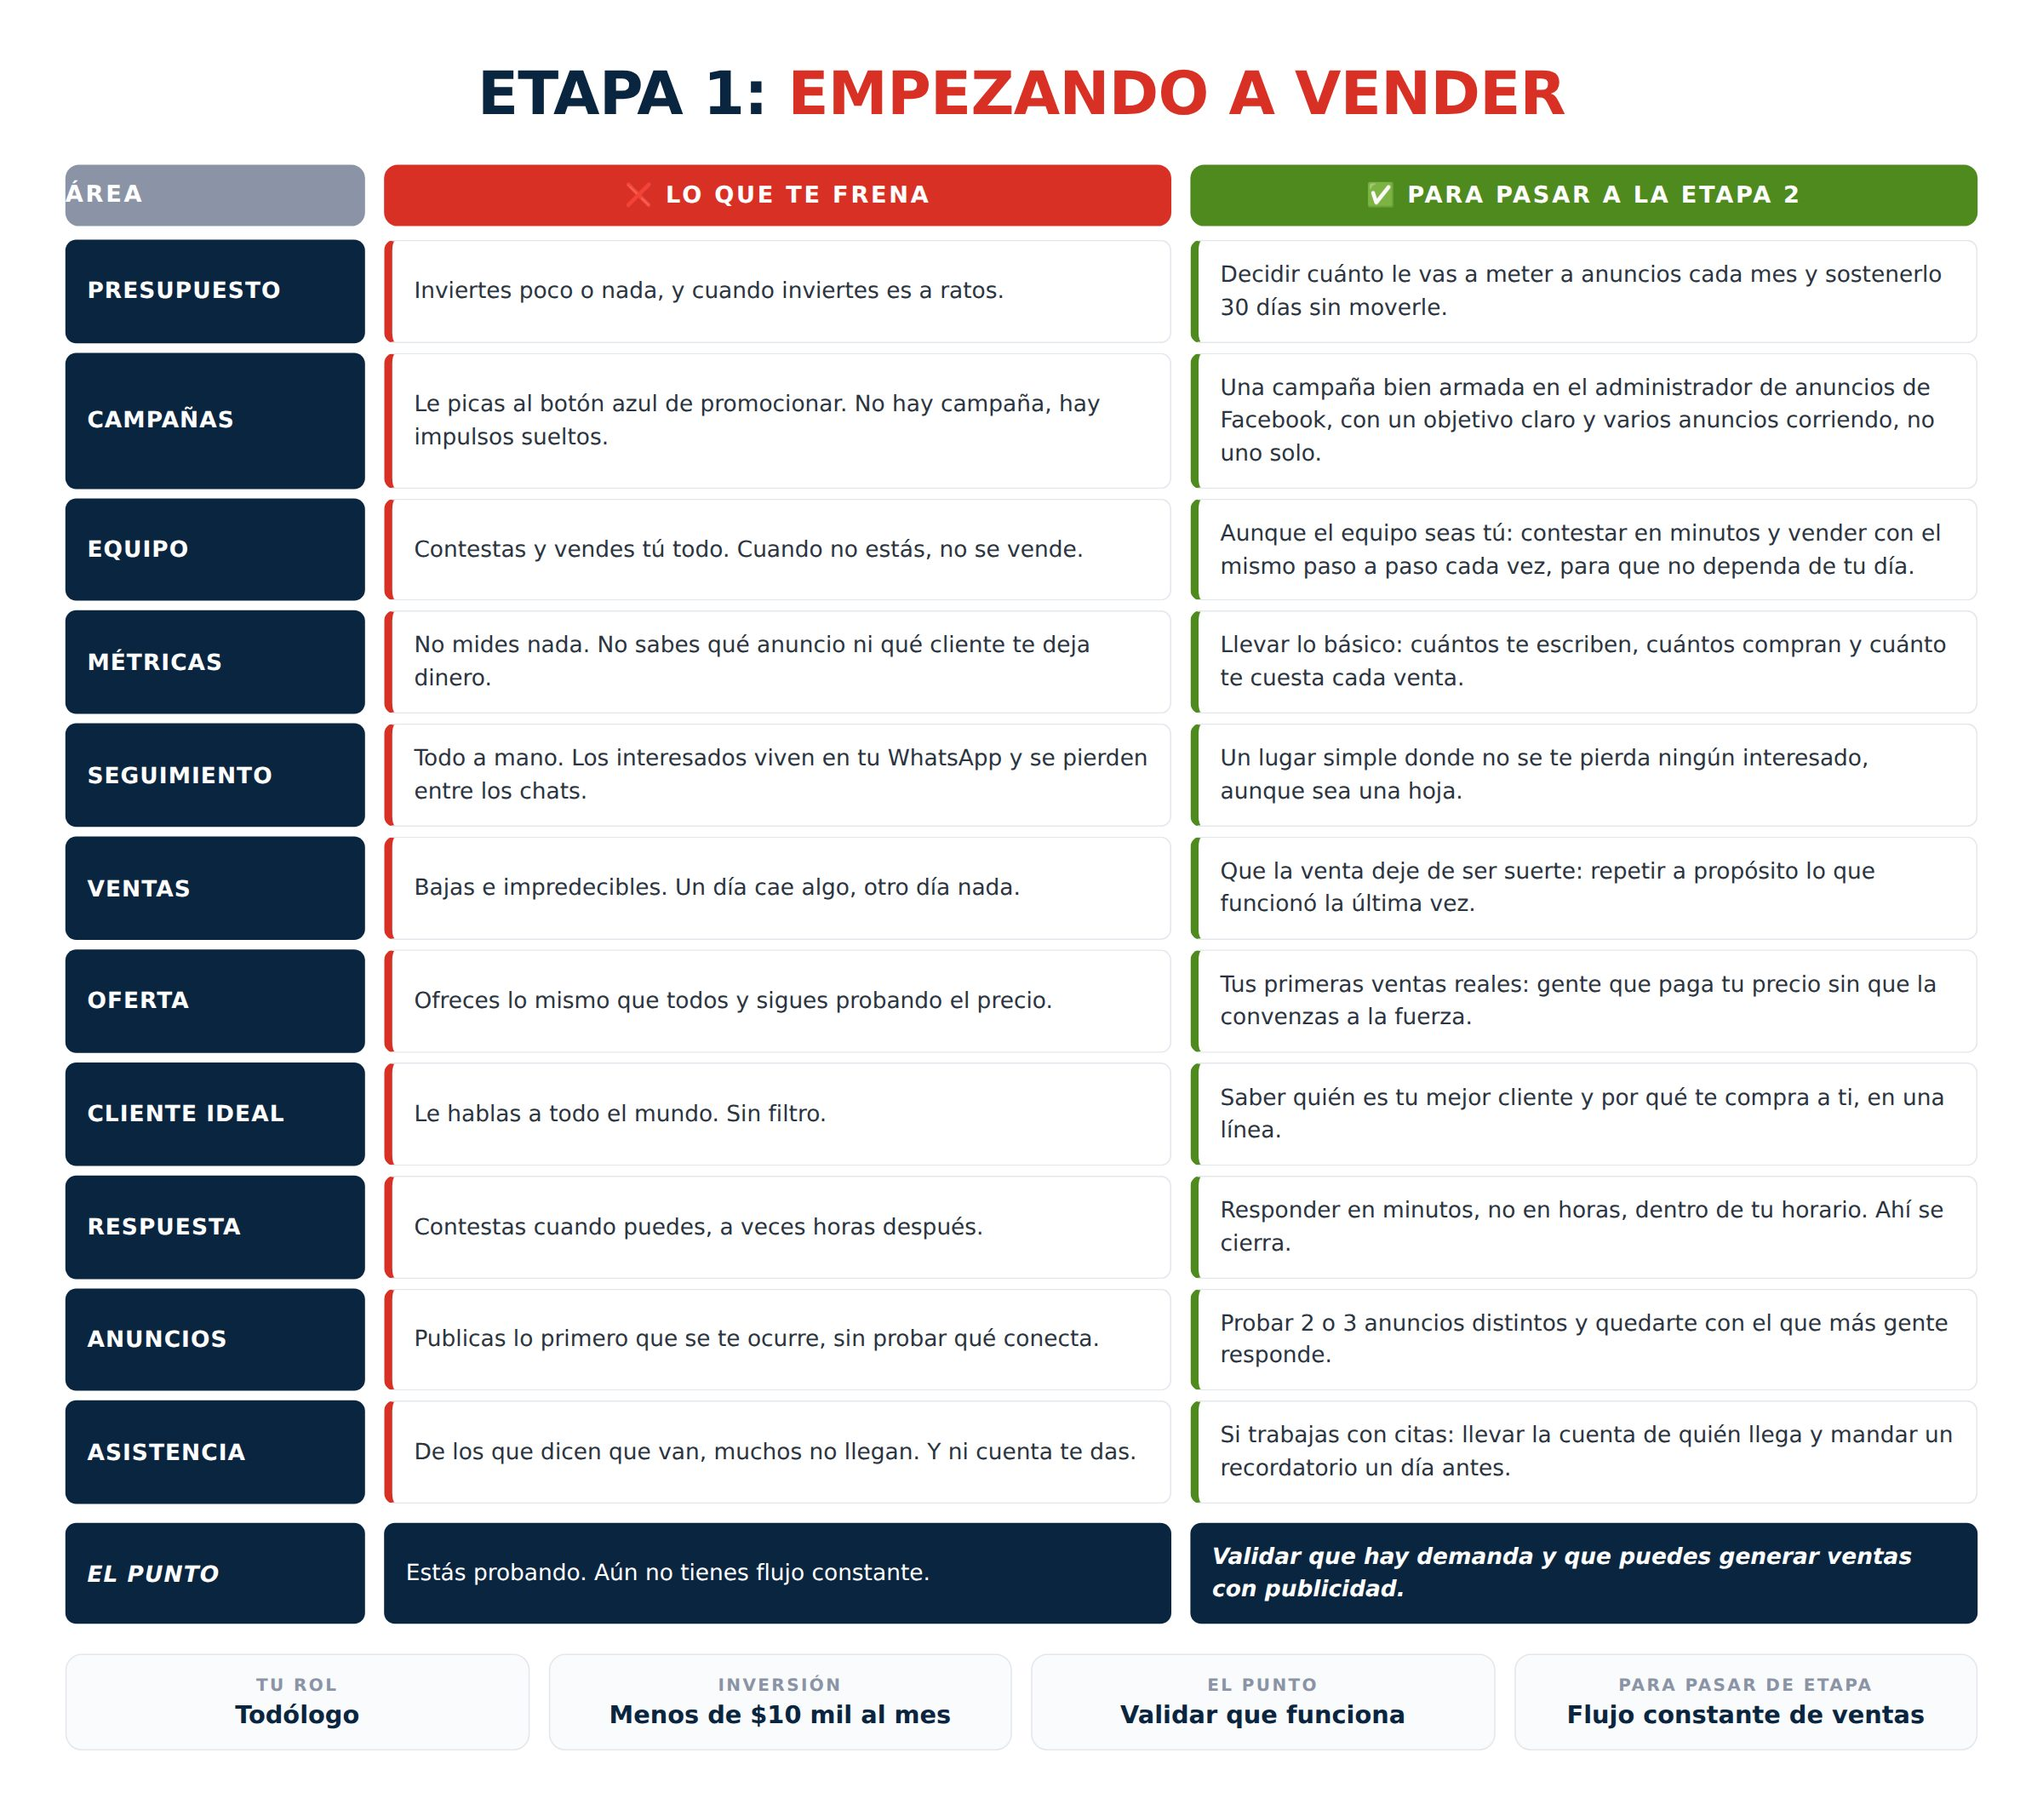
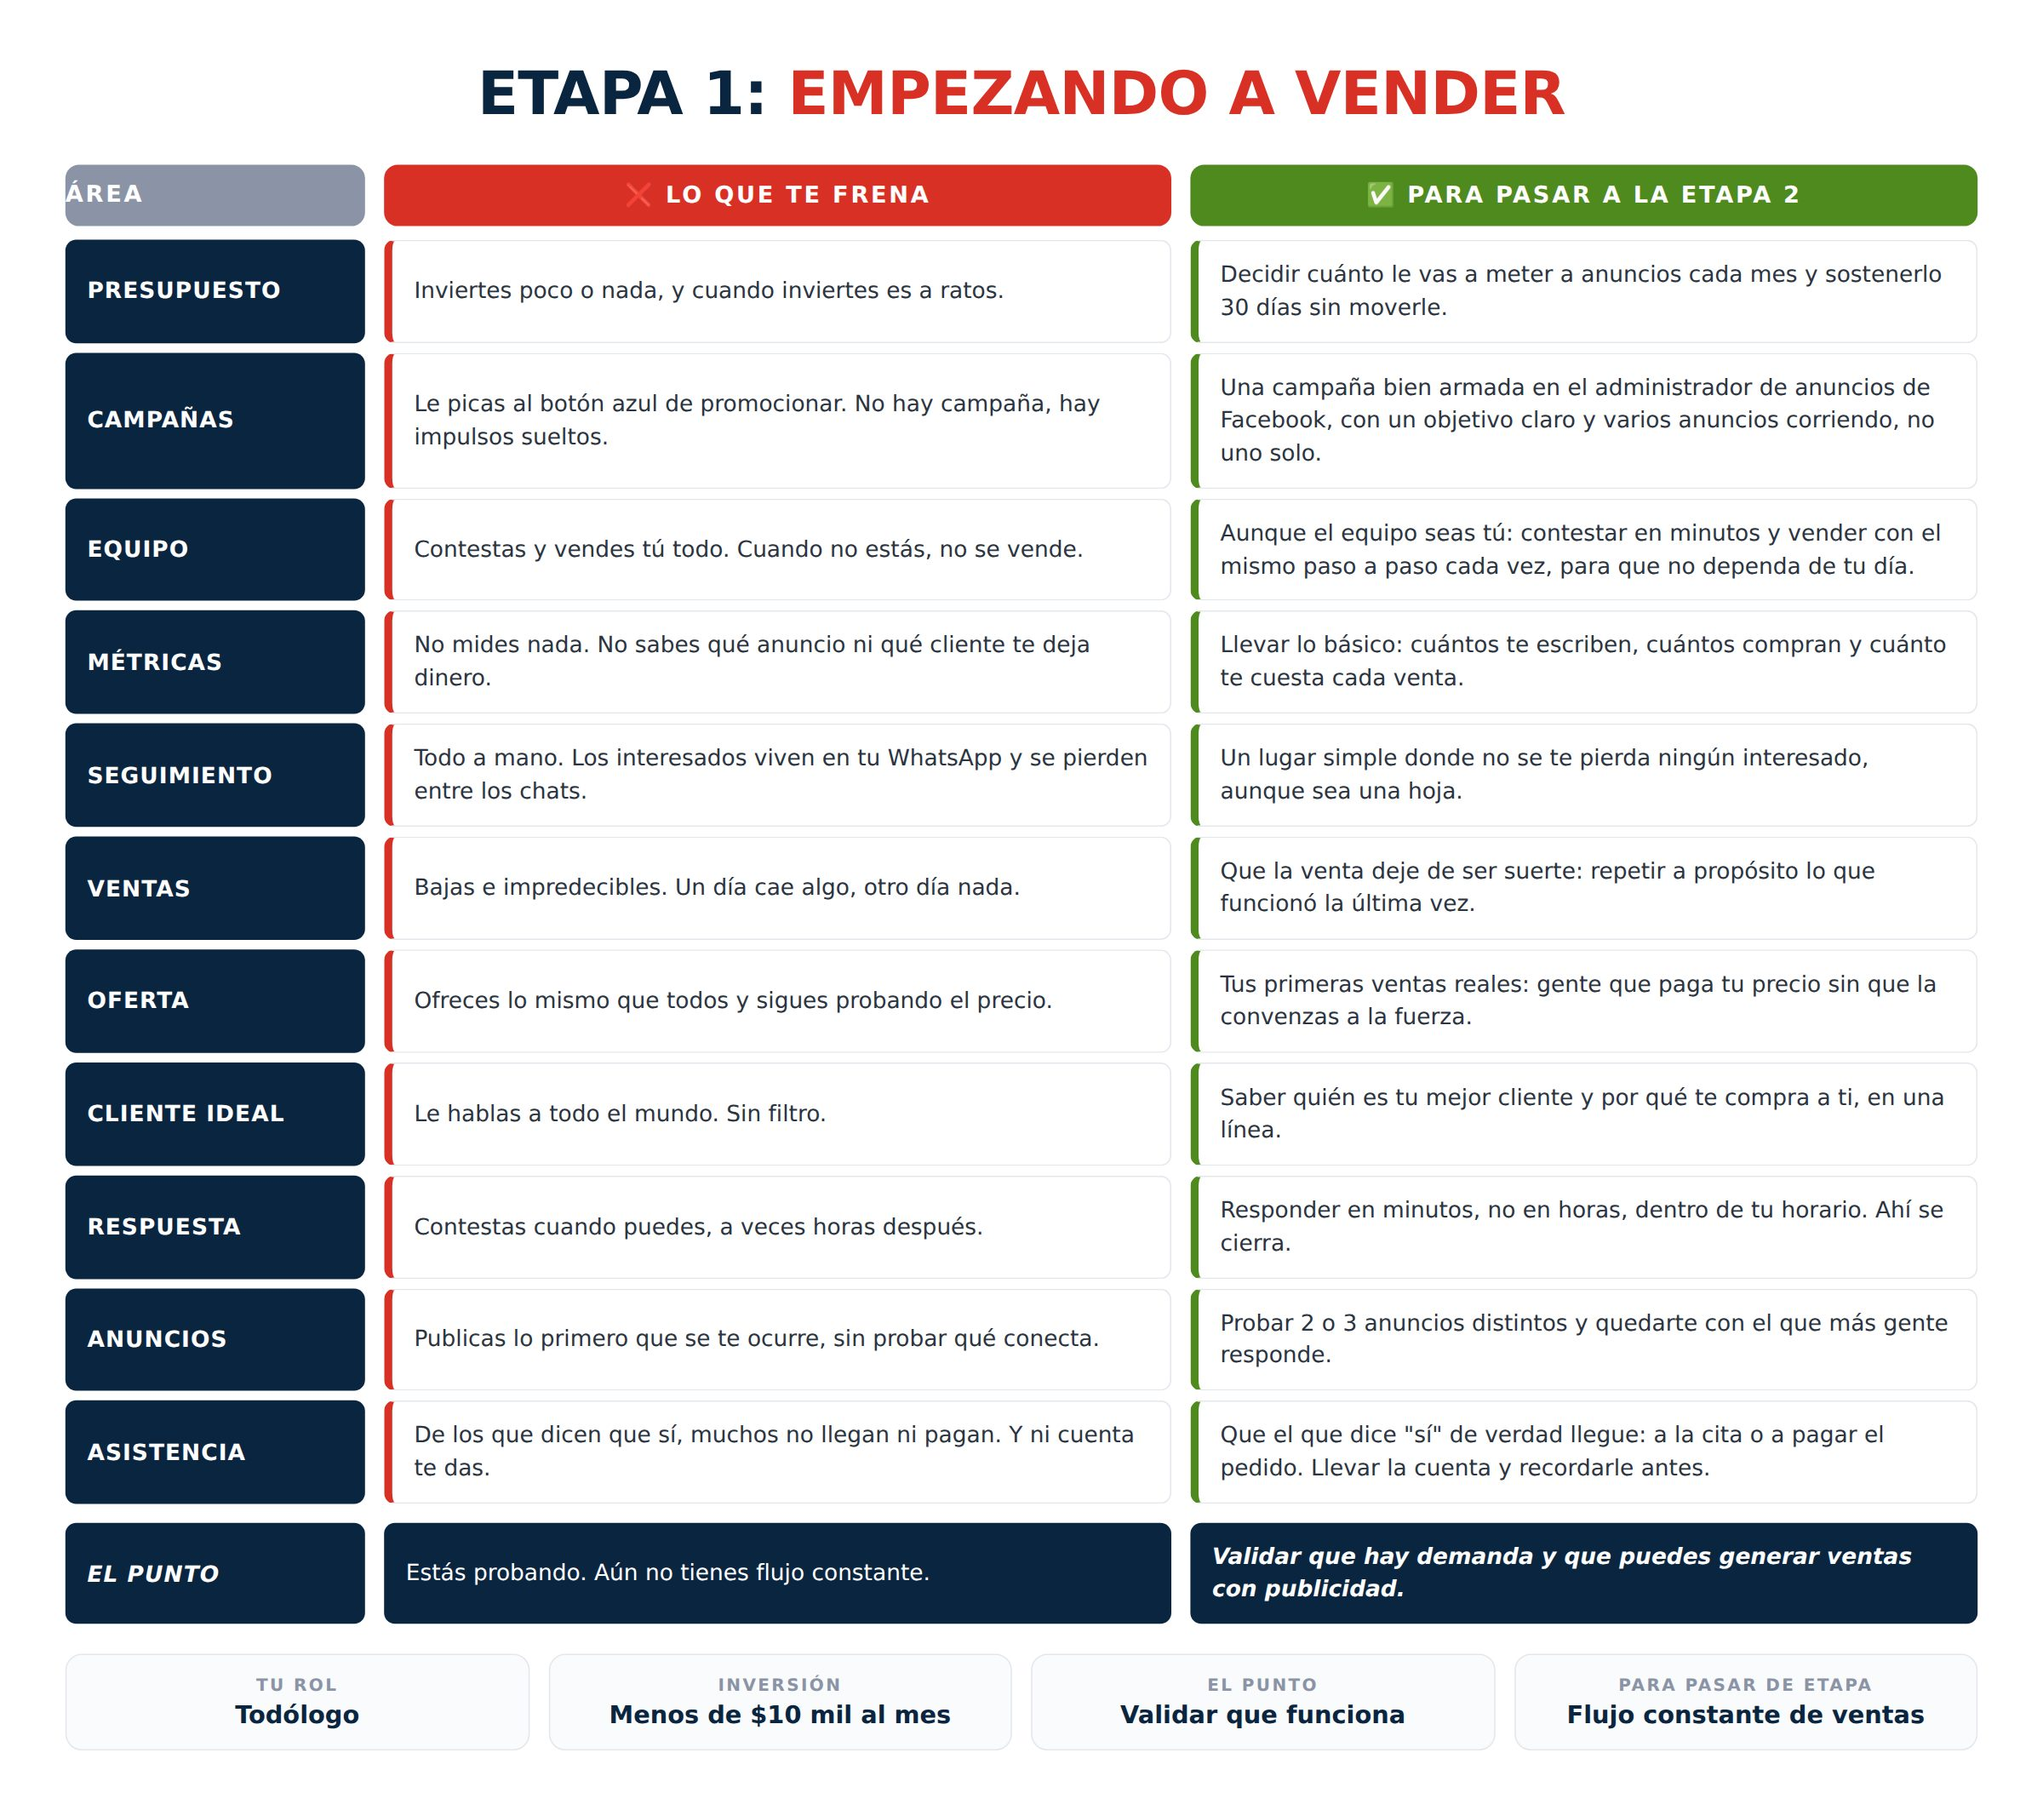
Add files via upload

Changed region(s): [[0.5938, 0.7761, 0.9375, 0.8382], [0.1875, 0.7761, 0.5625, 0.8071]]

diff --git a/v32.html b/v32.html
@@ -1954,7 +1954,7 @@ const CHK1=[
  {area:'Cliente ideal',text:'Saber quién es tu mejor cliente y por qué te compra a ti, en una línea.',ej:'Mujer de 30 a 45, de tu zona, que ya probó otras cosas y no le funcionaron. Te compra porque le dices la verdad de qué sí sirve.'},
  {area:'Respuesta',text:'Responder en minutos, no en horas, dentro de tu horario. Ahí se cierra.',ej:'Si escribe a las 11 de la mañana, le contestas antes de las 11:10. Si escribe a las 10 de la noche, le contestas a primera hora.'},
  {area:'Anuncios',text:'Probar 2 o 3 anuncios distintos y quedarte con el que más gente responde.',ej:'Un anuncio hablando del precio, otro del resultado y otro del miedo de que salga mal. A la semana ves cuál trajo más mensajes.'},
- {area:'Asistencia',text:'Si trabajas con citas: llevar la cuenta de quién llega y mandar un recordatorio un día antes.',ej:'De 10 que agendan, apuntas cuántos llegaron. Y un día antes: "Hola, te espero mañana a las 4, ¿confirmas?"'}
+ {area:'Asistencia',text:'Que el que dice "sí" de verdad llegue: a la cita o a pagar el pedido. Llevar la cuenta y recordarle antes.',ej:'De 10 que dicen "sí, voy" o "sí, lo quiero", apuntas cuántos llegaron a la cita o a pagar. Y antes les escribes: "Te espero mañana a las 4, ¿confirmas?" o "Te aparto tu pedido hasta hoy a las 6, ¿lo cierro?"',na:true}
 ];
 function chk1Load(){
  try{ const raw=localStorage.getItem('as_chk_1'); const o=raw?JSON.parse(raw):{}; return (o&&typeof o==='object')?o:{}; }catch(e){ return {}; }
@@ -1986,7 +1986,7 @@ function renderChecklist1(firstAny){
    const isStart=startIdx.indexOf(i)>=0;
    const startSpan=isStart?' <span class="chk-start">← Empieza por aquí</span>':'';
    const stateCls=on?' tengo':(ay?' ayuda':'');
-   return `<div class="it${stateCls}${isStart?' start':''}" data-i="${i}"><button type="button" class="c" data-act="tengo" aria-label="Ya lo resolví"></button><div class="tx"><b>${c.area}:</b> ${c.text}${startSpan}${c.ej?`<div class="ej"><b>Ejemplo:</b> ${c.ej}</div>`:''}<div class="how-row">Si esto ya lo haces, toca el círculo para marcarlo como resuelto. Si quieres ayuda con esto, toca el botón.</div></div><button type="button" class="act ayuda" data-act="ayuda">${ay?'✓ Ayúdame con esto':'Ayúdame con esto'}</button>${ay?(PIDE_COVERED.indexOf(c.area)>=0?`<div class="fb">Esto viene en la guía de etapa 1, ya la puedes apartar. <a href="#guia" class="fb-go">Ver la guía ↓</a></div>`:`<div class="fb">Anotado. En cuanto junte a los que piden esto, hago la guía y te aviso a tu correo.</div>`):''}</div>`;
+   return `<div class="it${stateCls}${isStart?' start':''}" data-i="${i}"><button type="button" class="c" data-act="tengo" aria-label="Ya lo resolví"></button><div class="tx"><b>${c.area}:</b> ${c.text}${startSpan}${c.ej?`<div class="ej"><b>Ejemplo:</b> ${c.ej}</div>`:''}<div class="how-row">Si esto ya lo haces${c.na?' o no aplica para tu negocio':''}, toca el círculo para marcarlo como resuelto. Si quieres ayuda con esto, toca el botón.</div></div><button type="button" class="act ayuda" data-act="ayuda">${ay?'✓ Ayúdame con esto':'Ayúdame con esto'}</button>${ay?(PIDE_COVERED.indexOf(c.area)>=0?`<div class="fb">Esto viene en la guía de etapa 1, ya la puedes apartar. <a href="#guia" class="fb-go">Ver la guía ↓</a></div>`:`<div class="fb">Anotado. En cuanto junte a los que piden esto, hago la guía y te aviso a tu correo.</div>`):''}</div>`;
   }).join('');
   prog.innerHTML=`Ya resolviste <b>${n}</b> de 11 · Pediste ayuda en <b>${nAyuda}</b>`;
   const bpT=document.getElementById('bpT'), bpA=document.getElementById('bpA');
